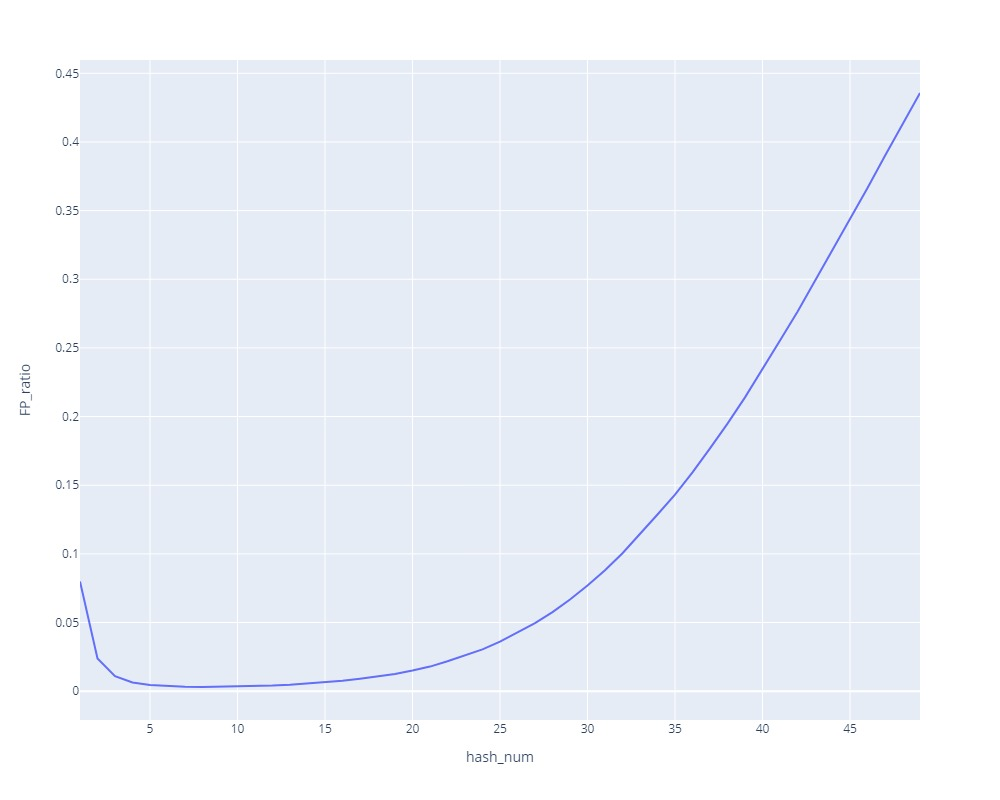
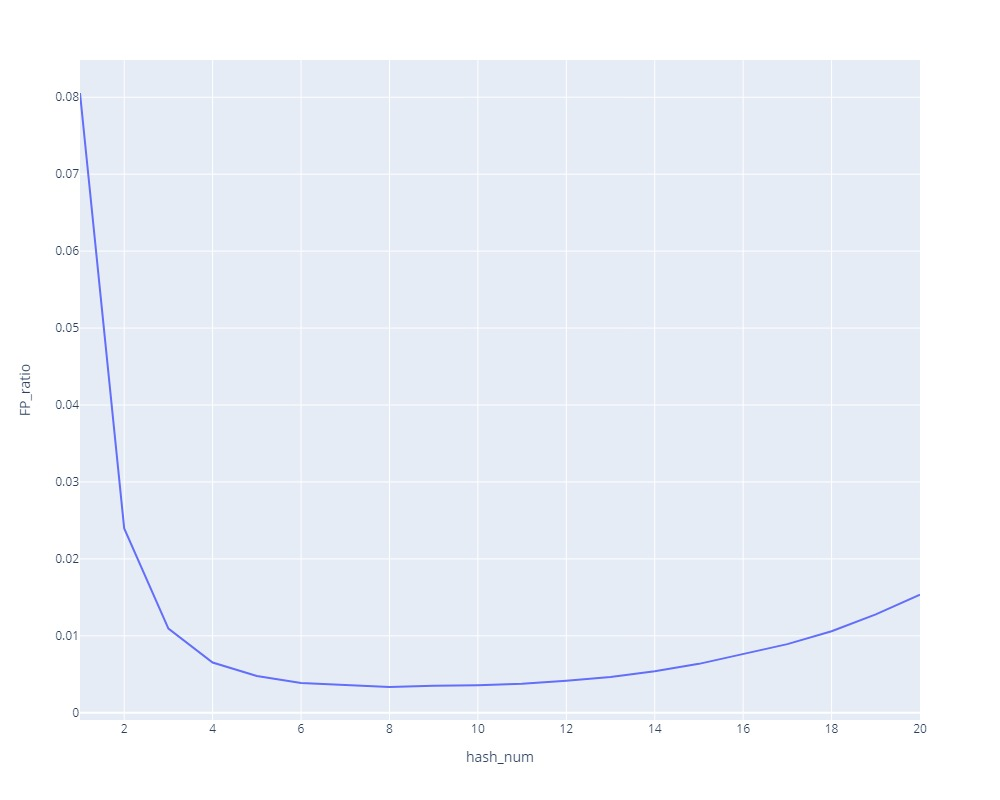
hamid/initial_codes chaning test script

diff --git a/test_bloom_filter.py b/test_bloom_filter.py
@@ -12,83 +12,89 @@ import string
 import plotly.express as px
 import plotly.io as pio
 import pandas as pd
-from bloom_filter import Bloomfilter
+from bloom_filter import BloomFilter
 
-
-def read_dic_words(wordlist):
-    with open(wordlist, 'r') as fin:
-        dic_words = [word.strip().rstrip('\n').lower() for word in fin]
-    dic_words = set(dic_words)
-    return dic_words
-
-
-def add_words(bloom_filter_obj, dic_words):
-    for word in dic_words:
-        bloom_filter_obj.add_word(word)
-
-        
-def check_added_words(bloom_filter_obj, dic_words):
-    FN = 0
-    TP = 0
-    for word in dic_words:
-        if bloom_filter_obj.exist_word(word) == False:
-            print('Hashing is not working ...')
-            FN += 1
-        else:
-            TP += 1
-    return FN, TP
-
-
-def run_initial_test(dic_words):
-    mask_size = 200
-    hash_num = 5
-    bloom_filter_obj = Bloomfilter(mask_size=mask_size, hash_num=hash_num)
-    add_words(bloom_filter_obj=bloom_filter_obj, dic_words=dic_words)
-    FN, TP = check_added_words(bloom_filter_obj=bloom_filter_obj, dic_words=dic_words)
-    print(f'number of dic_words is {len(dic_words)}')
-    print(f'FN is {FN}')
-    print(f'TP is {TP}')
+class TestBloomFilter():
     
-
-def check_random_words(dic_words, word_len=5):
-    res = []
-    word_num = len(dic_words)
-    rand_words = [''.join([random.choice(string.ascii_lowercase) for x in range(word_len)]) for i in range(word_num)]
-    rand_words = [word for word in rand_words if word not in dic_words]
+    def __init__(self, wordlist='wordlist.txt', plot_dir='./plots/'):
+        self.wordlist = wordlist
+        self._dir = plot_dir
+        self.dic_words = self.read_dic_words()
     
-    for hash_num in range(1, 50):
-        print(f'____________________________hash number: {hash_num}________________________')
-        for ratio in range(10, 21):
-            print(f'______________ratio: {ratio}__________')
-            mask_size = int(ratio*word_num)
-            bloom_filter_obj = Bloomfilter(mask_size=mask_size, hash_num=hash_num)
-            add_words(bloom_filter_obj, dic_words)
-            FP = 0
-            for rand_word in rand_words:
-                if bloom_filter_obj.exist_word(rand_word):
-                    FP += 1
-            res.append([ratio, FP/len(rand_words), hash_num])
-                     
-    return pd.DataFrame(res, columns=['m/n', 'FP_ratio', 'hash_num'])
-        
-
-def plot_line_charts(df):
-    _dir = './plots/'
-    fig = px.line(df.loc[df['hash_num']<=10], x='m/n', y='FP_ratio', color='hash_num')
-    fig.show()
-    pio.write_image(fig, _dir + 'fig1.jpeg', width=1000, height=800)
+    def read_dic_words(self):
+        with open(self.wordlist, 'r') as fin:
+            dic_words = [word.strip().rstrip('\n').lower() for word in fin]
+        dic_words = set(dic_words)
+        return dic_words
     
-    groups = df.groupby(by='m/n')
-    for key, grp in groups:
-        fig = px.line(grp, x='hash_num', y='FP_ratio')
+    
+    def add_words(self, bloom_filter_obj):
+        for word in self.dic_words:
+            bloom_filter_obj.add_word(word)
+    
+            
+    def check_added_words(self, bloom_filter_obj):
+        FN = 0
+        TP = 0
+        for word in self.dic_words:
+            if bloom_filter_obj.exist_word(word) == False:
+                print('Hashing is not working ...')
+                FN += 1
+            else:
+                TP += 1
+        return FN, TP
+    
+    
+    def run_initial_test(self):
+        mask_size = 200
+        hash_num = 5
+        bloom_filter_obj = BloomFilter(mask_size=mask_size, hash_num=hash_num)
+        self.add_words(bloom_filter_obj=bloom_filter_obj)
+        FN, TP = self.check_added_words(bloom_filter_obj=bloom_filter_obj)
+        print(f'number of dic_words is {len(self.dic_words)}')
+        print(f'FN is {FN}')
+        print(f'TP is {TP}')
+   
+    
+    def run_with_random_words(self, word_len=5):
+        word_num = len(self.dic_words)
+        rand_words = [''.join([random.choice(string.ascii_lowercase) for x in range(word_len)]) for i in range(word_num)]
+        rand_words = [word for word in rand_words if word not in self.dic_words]
+        res = []
+        for hash_num in range(1, 21):
+            print(f'____________________________hash number: {hash_num}________________________')
+            
+            for ratio in range(10, 21):
+                print(f'______________ratio: {ratio}__________')
+                
+                mask_size = int(ratio*word_num)
+                bloom_filter_obj = BloomFilter(mask_size=mask_size, hash_num=hash_num)
+                self.add_words(bloom_filter_obj)
+                
+                FP = 0
+                for rand_word in rand_words:
+                    if bloom_filter_obj.exist_word(rand_word):
+                        FP += 1
+                res.append([ratio, FP/len(rand_words), hash_num])
+                print(f'ratio, fp_ratio, hash_num: [{ratio}, {FP/len(rand_words)}, {hash_num}]')
+                         
+        return pd.DataFrame(res, columns=['m/n', 'FP_ratio', 'hash_num'])
+            
+    
+    def plot_line_charts(self, df):
+        fig = px.line(df.loc[df['hash_num']<=10], x='m/n', y='FP_ratio', color='hash_num')
         fig.show()
-        pio.write_image(fig, _dir + f'm_over_n={key}.jpeg', width=1000, height=800)
+        pio.write_image(fig, self._dir + 'fig1.jpeg', width=1000, height=800)
         
-        
+        groups = df.groupby(by='m/n')
+        for key, grp in groups:
+            fig = px.line(grp, x='hash_num', y='FP_ratio')
+            fig.show()
+            pio.write_image(fig, self._dir + f'm_over_n={key}.jpeg', width=1000, height=800)
+    
 
 if __name__ == '__main__':
-    wordlist = 'wordlist.txt'
-    dic_words = read_dic_words(wordlist)
-    run_initial_test(dic_words)
-    df = check_random_words(dic_words)
-    plot_line_charts(df)
+    test_obj = TestBloomFilter()
+    test_obj.run_initial_test()
+    df = test_obj.run_with_random_words()
+    test_obj.plot_line_charts(df)

diff --git a/bloom_filter.py b/bloom_filter.py
@@ -7,7 +7,7 @@ Created on Thu Mar 10 18:11:45 2022
 import mmh3
 from bitarray import bitarray
 
-class Bloomfilter():
+class BloomFilter():
     
     def __init__(self, mask_size, hash_num):
         self.mask_size = mask_size
